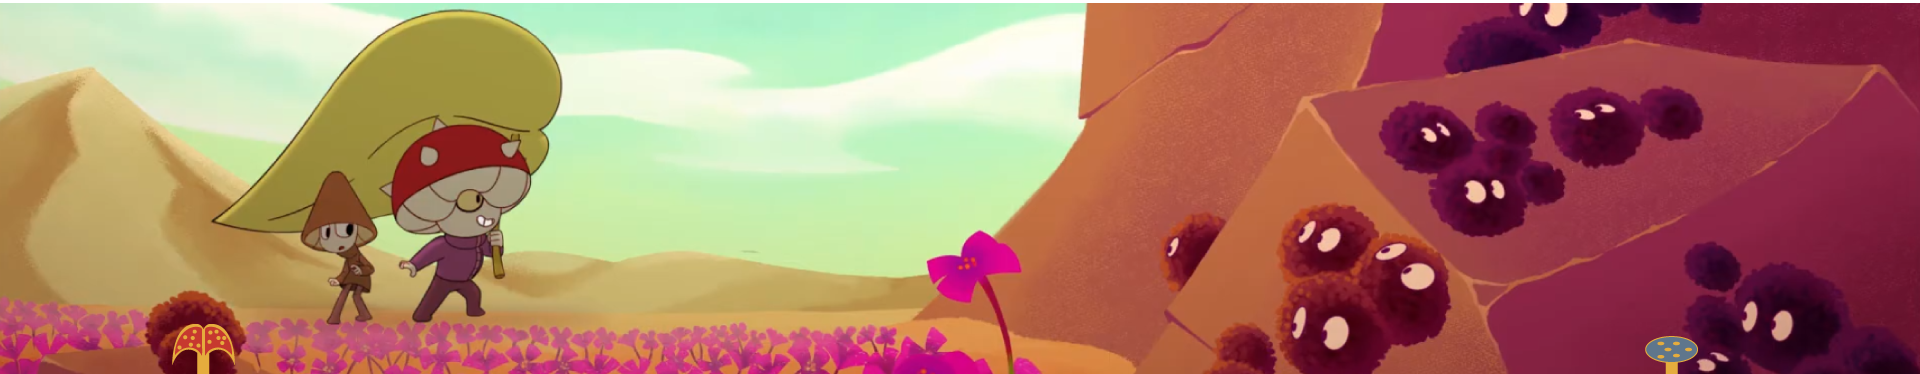
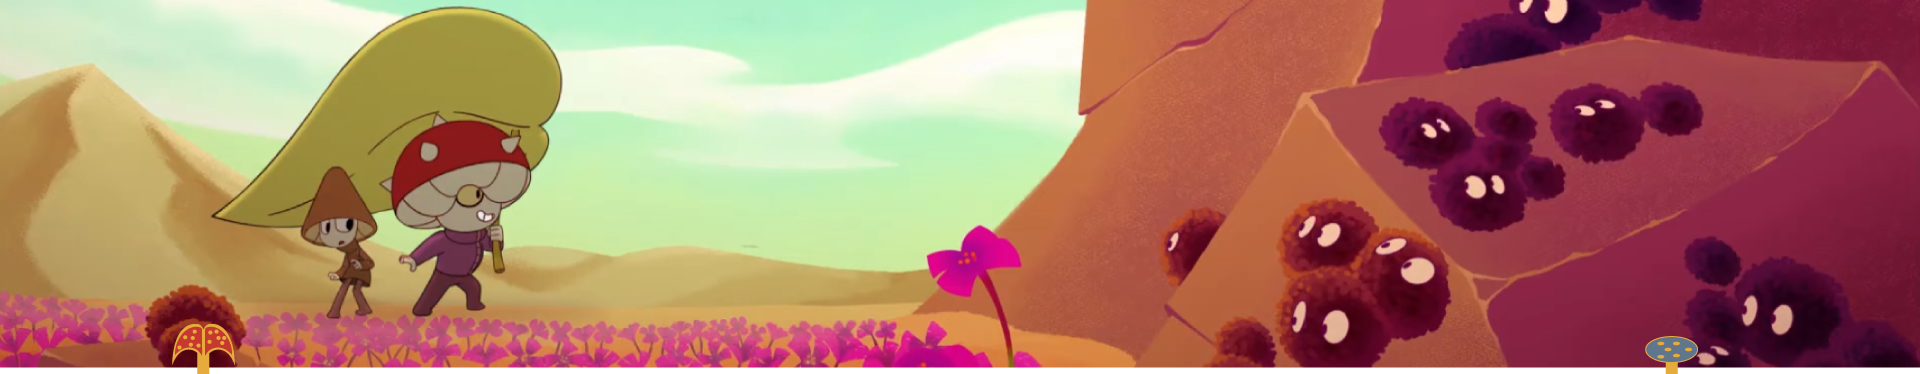
finalconvideo

diff --git a/intento2/home.html b/intento2/home.html
@@ -31,7 +31,7 @@
 
     <main>
         <div class="example-marquee">
-            <div id="ytbg" data-ytbg-fade-in="true" data-youtube="https://www.youtube.com/watch?v=XtpO0Wazwtc">
+            <div id="ytbg" data-ytbg-fade-in="true" data-youtube="https://youtu.be/8ftR0TD3ZT0">
             </div>
             <div class="content">
                 <div class="inner">
